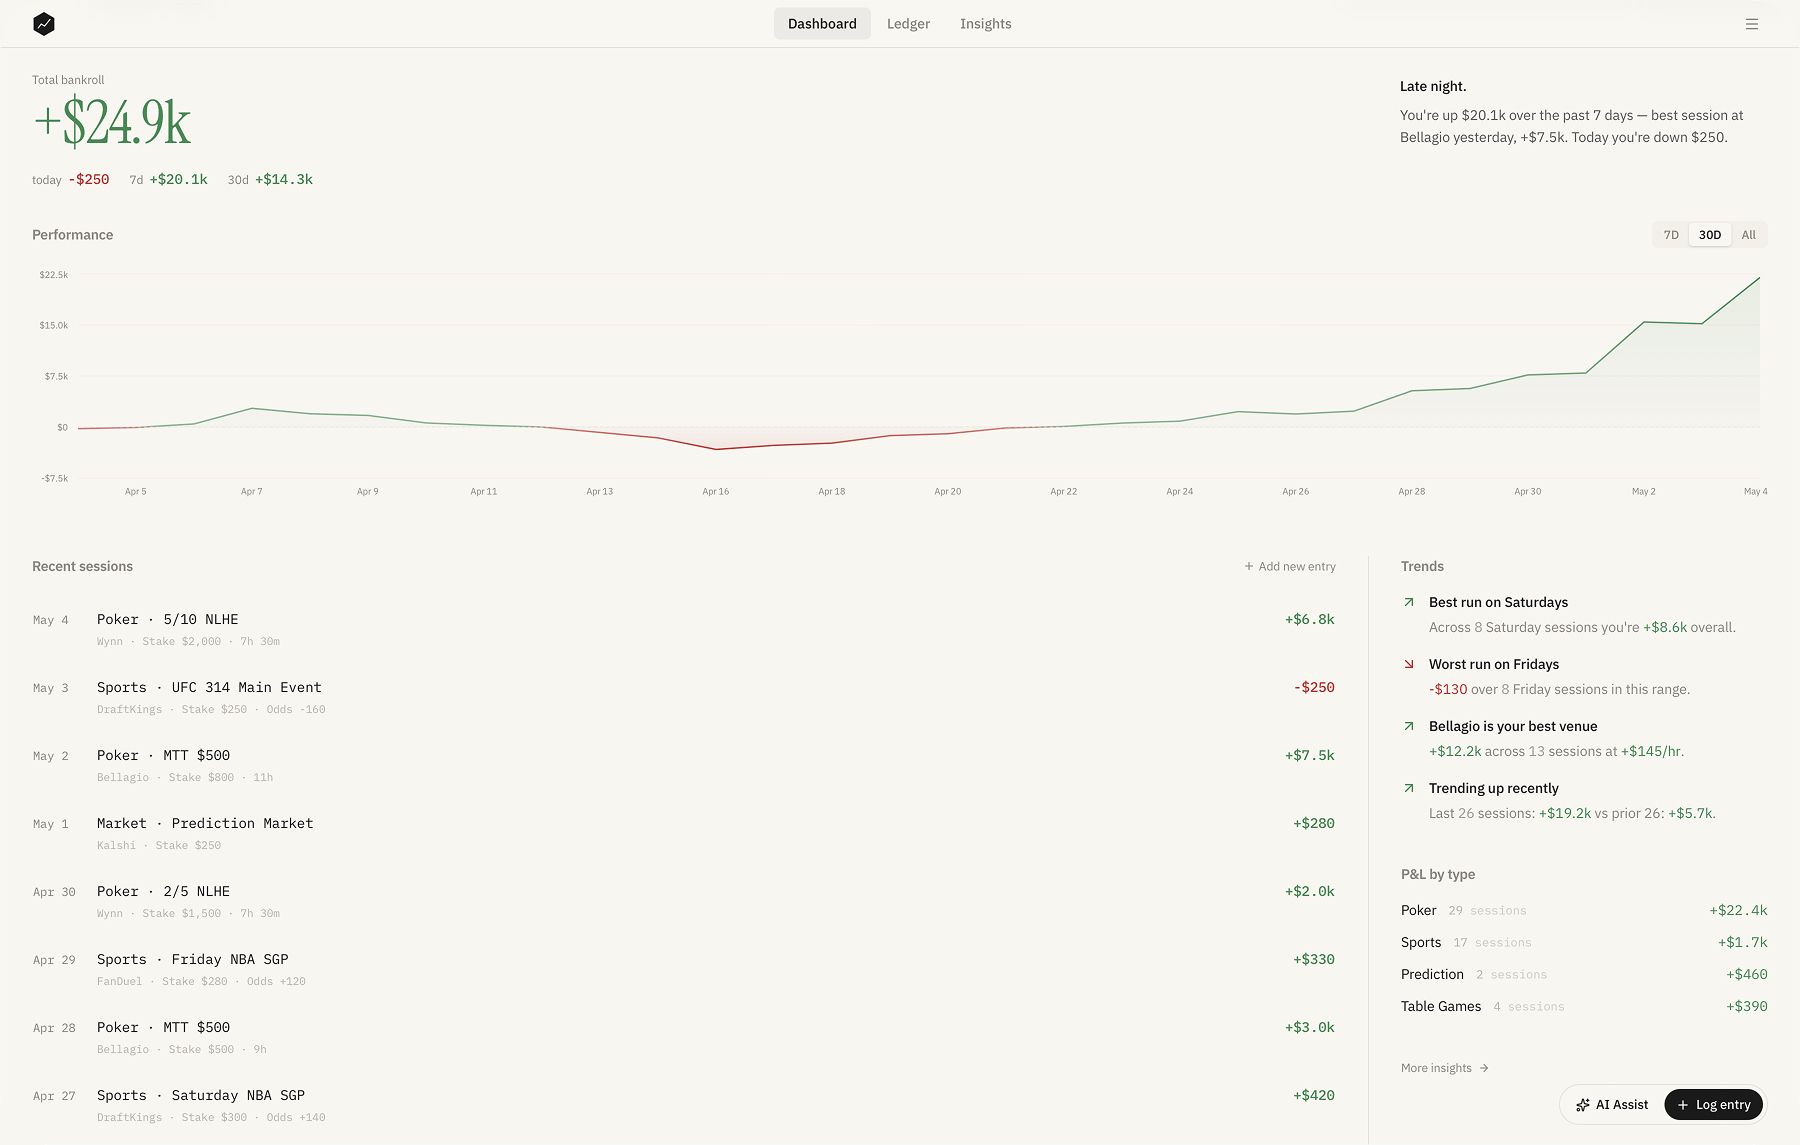
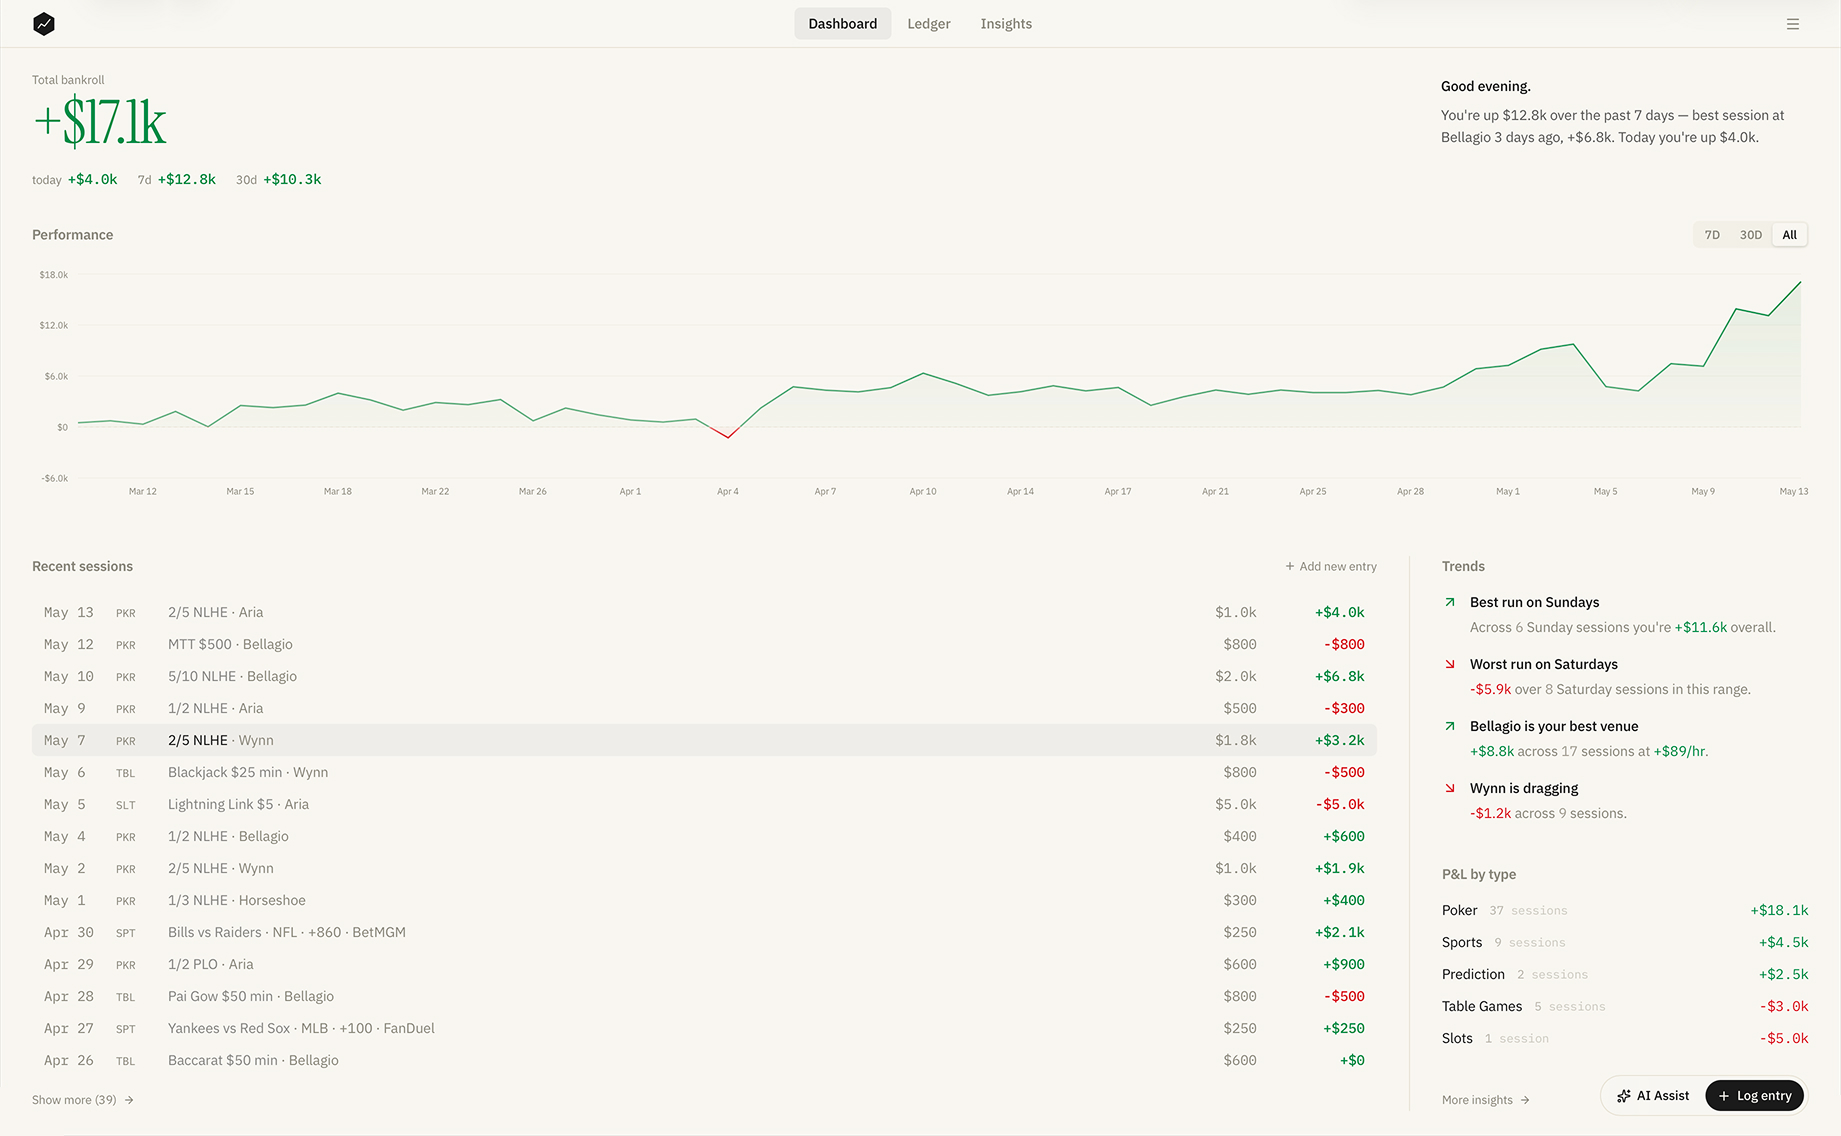
refine animations, update project image

diff --git a/app/_components/AnimRoot.tsx b/app/_components/AnimRoot.tsx
@@ -42,44 +42,42 @@ export function AnimRoot({
             delay: 0.02,
           });
 
-          // Header cascades left → right (logo · swatches), then hero, body,
-          // footer follow the page's vertical reading flow.
-          tl.from("[data-anim='logo']", {
-            autoAlpha: 0,
-            y: -3,
-            duration: 0.28,
-          })
-            .from(
-              "[data-anim='swatch']",
-              {
-                autoAlpha: 0,
-                filter: "blur(2px)",
-                duration: 0.24,
-                stagger: 0.02,
-                force3D: true,
-              },
-              "-=0.18",
-            )
-            .from(
-              "[data-anim='hero']",
-              {
-                autoAlpha: 0,
-                y: 6,
-                duration: 0.32,
-                stagger: 0.05,
-              },
-              "-=0.12",
-            )
-            .from(
-              "[data-anim='body']",
-              { autoAlpha: 0, y: 5, duration: 0.3, stagger: 0.03 },
-              "-=0.2",
-            )
-            .from(
-              "[data-anim='footer']",
-              { autoAlpha: 0, y: 3, duration: 0.26, stagger: 0.02 },
-              "-=0.18",
+          const root = rootRef.current;
+          const pick = (sel: string) => {
+            const nodes = root?.querySelectorAll(sel);
+            return nodes && nodes.length ? nodes : null;
+          };
+
+          // Above-the-fold only: logo + swatches together, then hero,
+          // then the about/inquiries pair. Below-the-fold elements
+          // (project list, engagement cards, footer) reveal without
+          // animation — there's no audience for a cascade that runs
+          // offscreen.
+          const logoSwatch = pick("[data-anim='logo'], [data-anim='swatch']");
+          if (logoSwatch) {
+            tl.from(logoSwatch, {
+              autoAlpha: 0,
+              y: -2,
+              duration: 0.24,
+              stagger: 0.015,
+            });
+          }
+          const hero = pick("[data-anim='hero']");
+          if (hero) {
+            tl.from(
+              hero,
+              { autoAlpha: 0, y: 4, duration: 0.28 },
+              "-=0.1",
             );
+          }
+          const body = pick("[data-anim='body']");
+          if (body) {
+            tl.from(
+              body,
+              { autoAlpha: 0, y: 4, duration: 0.26, stagger: 0.04 },
+              "-=0.16",
+            );
+          }
         },
       );
     },

diff --git a/app/_components/SiteFooter.tsx b/app/_components/SiteFooter.tsx
@@ -15,37 +15,22 @@ export function SiteFooter({
       onClickCapture={onClickCapture}
       className={`mt-16 pb-6 md:mt-24 md:pb-8 lg:mt-32 lg:pb-10 ${GRID}`}
     >
-      <div
-        data-anim="footer"
-        className="col-span-12 border-t border-[color:var(--panel-border)] pt-6 md:pt-8"
-      />
+      <div className="col-span-12 border-t border-[color:var(--panel-border)] pt-6 md:pt-8" />
 
-      <div
-        data-anim="footer"
-        className="col-span-12 flex justify-start md:col-span-2 md:col-start-1"
-      >
+      <div className="col-span-12 flex justify-start md:col-span-2 md:col-start-1">
         <ThemeSwatch className="flex" />
       </div>
 
-      <div
-        data-anim="footer"
-        className="col-span-12 pt-12 font-mono text-2xs font-light uppercase tracking-wide opacity-60 md:col-span-3 md:col-start-5 md:pt-0"
-      >
+      <div className="col-span-12 pt-12 font-mono text-2xs font-light uppercase tracking-wide opacity-60 md:col-span-3 md:col-start-5 md:pt-0">
         <p>based in the mojave desert</p>
         <p>working worldwide</p>
       </div>
 
-      <div
-        data-anim="footer"
-        className="col-span-6 pt-12 opacity-60 md:col-span-2 md:col-start-9 md:pt-0"
-      >
+      <div className="col-span-6 pt-12 opacity-60 md:col-span-2 md:col-start-9 md:pt-0">
         <FooterWeather />
       </div>
 
-      <div
-        data-anim="footer"
-        className="col-span-6 pt-12 text-right font-mono text-2xs font-light uppercase tracking-wide opacity-60 md:col-span-2 md:col-start-11 md:pt-0"
-      >
+      <div className="col-span-6 pt-12 text-right font-mono text-2xs font-light uppercase tracking-wide opacity-60 md:col-span-2 md:col-start-11 md:pt-0">
         <div className="flex items-center justify-end gap-3">
           <a
             href="https://x.com/thirdindexco"

diff --git a/app/page.tsx b/app/page.tsx
@@ -31,7 +31,7 @@ export default function HomePage() {
             className="col-span-12 md:col-start-2 md:col-span-10 max-w-[60ch] font-sans text-2xl font-semibold tracking-tighter leading-tight text-pretty md:text-3xl"
           >
             {HERO_HEADLINE}{" "}
-            <span className="font-normal text-foreground/60">
+            <span className="font-light text-foreground/50">
               {HERO_SUPPORT}
             </span>
           </p>
@@ -81,7 +81,7 @@ export default function HomePage() {
           <div className="relative col-span-12 overflow-hidden border-y border-[color:var(--panel-border)] py-8 md:py-10 lg:py-12">
             <div aria-hidden className="dither-field absolute inset-0" />
             <div className="relative z-10">
-              <div data-anim="body">
+              <div>
                 <div className="font-mono text-3xs font-medium uppercase tracking-tight">
                   ways to work together
                 </div>
@@ -95,7 +95,6 @@ export default function HomePage() {
                   <Link
                     key={engagement.slug}
                     href={engagement.href}
-                    data-anim="body"
                     className="group/card flex min-h-64 flex-col border border-[color:var(--panel-border)] bg-[color:var(--background)] p-5 outline-none transition-colors duration-200 hover:border-[color:color-mix(in_srgb,var(--foreground)_20%,transparent)] focus-visible:border-[color:color-mix(in_srgb,var(--foreground)_20%,transparent)] focus-visible:outline focus-visible:outline-[1.5px] focus-visible:outline-offset-[6px] focus-visible:outline-[color:var(--accent)] md:min-h-72 lg:p-6"
                   >
                     <h3 className="font-sans text-xl font-semibold leading-tight tracking-tight">
@@ -108,12 +107,10 @@ export default function HomePage() {
                       {engagement.description}
                     </p>
                     <span className="mt-auto inline-flex items-center gap-1.5 self-start pt-8 font-mono text-3xs font-medium uppercase tracking-tight opacity-70 transition-opacity duration-200 group-hover/card:opacity-100 group-focus-visible/card:opacity-100">
-                      <span className="transition-transform duration-200 group-hover/card:translate-x-0.5 group-focus-visible/card:translate-x-0.5">
-                        learn more
-                      </span>
+                      learn more
                       <ArrowRight
                         aria-hidden
-                        className="h-3 w-3 transition-transform duration-200 group-hover/card:translate-x-1 group-focus-visible/card:translate-x-1"
+                        className="h-3 w-3 transition-transform duration-200 group-hover/card:translate-x-0.5 group-focus-visible/card:translate-x-0.5"
                       />
                     </span>
                   </Link>

diff --git a/app/_components/ProjectShowcase.tsx b/app/_components/ProjectShowcase.tsx
@@ -32,10 +32,7 @@ export function ProjectShowcase({ projects }: { projects: Project[] }) {
   return (
     <section id="selected-work" className="scroll-mt-12 pt-12 md:pt-24 lg:pt-32">
       <div className={GRID}>
-        <div
-          data-anim="body"
-          className="col-span-12 font-mono font-medium text-3xs uppercase tracking-tight md:col-span-10 md:col-start-2"
-        >
+        <div className="col-span-12 font-mono font-medium text-3xs uppercase tracking-tight md:col-span-10 md:col-start-2">
           selected work
         </div>
       </div>
@@ -46,7 +43,6 @@ export function ProjectShowcase({ projects }: { projects: Project[] }) {
         {projects.map((project, index) => (
           <article
             key={project.url}
-            data-anim="body"
             className="min-h-[80vh] py-6 md:py-8 lg:py-10"
           >
             <div className={`${GRID} min-h-[calc(80vh-5rem)] content-center`}>

diff --git a/app/_components/InquiryDrawer.tsx b/app/_components/InquiryDrawer.tsx
@@ -108,8 +108,8 @@ export function InquiryDrawer() {
   return (
     <Dialog.Root open={open} onOpenChange={handleOpenChange}>
       <Dialog.Portal>
-        <Dialog.Backdrop className="fixed inset-0 z-40 bg-foreground/15 transition-opacity duration-300 data-[starting-style]:opacity-0 data-[ending-style]:opacity-0" />
-        <Dialog.Popup className="fixed z-50 top-2 bottom-2 left-2 right-2 md:left-auto md:top-4 md:bottom-4 md:right-4 md:w-[520px] flex flex-col overflow-hidden rounded-2xl border border-[color:var(--panel-border)] bg-background text-foreground shadow-[-8px_0_24px_-16px_rgba(0,0,0,0.1)] transition-transform duration-500 ease-[cubic-bezier(0.22,1,0.36,1)] data-[starting-style]:translate-x-full data-[ending-style]:translate-x-full">
+        <Dialog.Backdrop className="fixed inset-0 z-40 bg-foreground/15 transition-opacity duration-200 data-[starting-style]:opacity-0 data-[ending-style]:opacity-0" />
+        <Dialog.Popup className="fixed z-50 top-2 bottom-2 left-2 right-2 md:left-auto md:top-4 md:bottom-4 md:right-4 md:w-[520px] flex flex-col overflow-hidden rounded-2xl border border-[color:var(--panel-border)] bg-background text-foreground shadow-[-8px_0_24px_-16px_rgba(0,0,0,0.1)] transition-transform duration-300 ease-[cubic-bezier(0.22,1,0.36,1)] data-[starting-style]:translate-x-full data-[ending-style]:translate-x-full">
           {/* Header */}
           <div className="flex items-center justify-between px-6 md:px-10 pt-5 pb-8">
             <Dialog.Title className="font-mono font-medium text-3xs uppercase tracking-tight">

diff --git a/app/_components/ProjectMedia.tsx b/app/_components/ProjectMedia.tsx
@@ -63,13 +63,13 @@ export function ProjectMedia({ project }: { project: Project }) {
           preload="none"
           onLoadedData={playVideo}
           aria-hidden="true"
-          className="col-span-4 h-auto max-h-[58vh] w-full object-contain opacity-95 transition duration-500 group-hover:scale-[1.01] group-hover:opacity-100 md:col-span-10 md:col-start-2 md:max-h-[66vh]"
+          className="col-span-4 h-auto max-h-[58vh] w-full object-contain md:col-span-10 md:col-start-2 md:max-h-[66vh]"
         />
       ) : (
         <img
           src={project.thumbnail ?? "/landscape.jpg"}
           alt=""
-          className="col-span-4 h-auto max-h-[58vh] w-full object-contain opacity-95 transition duration-500 group-hover:scale-[1.01] group-hover:opacity-100 md:col-span-10 md:col-start-2 md:max-h-[66vh]"
+          className="col-span-4 h-auto max-h-[58vh] w-full object-contain md:col-span-10 md:col-start-2 md:max-h-[66vh]"
         />
       )}
     </span>

diff --git a/app/globals.css b/app/globals.css
@@ -109,7 +109,7 @@ html[data-theme="accent"] .dither-field {
   overflow: hidden;
   height: var(--collapsible-panel-height);
   transition-property: height;
-  transition-duration: 520ms;
+  transition-duration: 280ms;
   transition-timing-function: cubic-bezier(0.22, 1, 0.36, 1);
 }
 .collapsible-panel[data-starting-style],